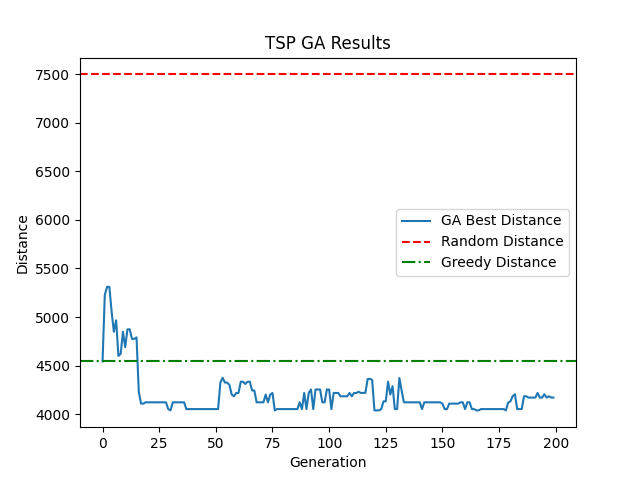
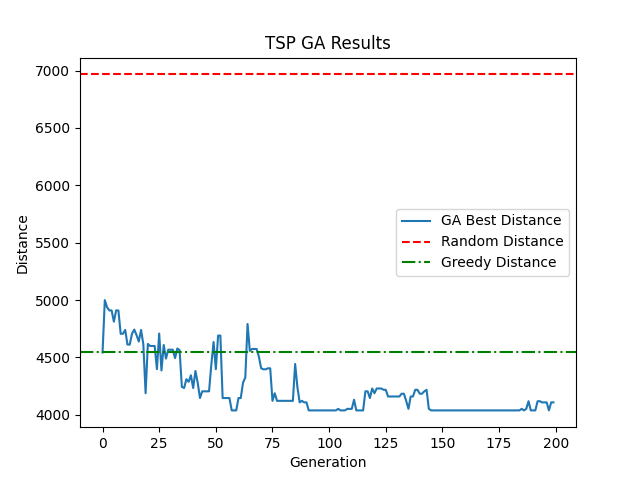
results done

diff --git a/main.py b/main.py
@@ -3,157 +3,193 @@ import numpy as np
 import matplotlib.pyplot as plt
 import sys
 import random
+import os
+
 
 def parse_tsp(filename):
-    lines=open(filename).read().strip().splitlines()
-    data=[]
-    readcoords=False
+    lines = open(filename).read().strip().splitlines()
+    data = []
+    readcoords = False
     for line in lines:
         if line.startswith("NODE_COORD_SECTION"):
-            readcoords=True
+            readcoords = True
             continue
         if line.startswith("EOF"):
             break
         if readcoords:
-            parts=line.split()
-            data.append([int(parts[0]),float(parts[1]),float(parts[2])])
-    df=pd.DataFrame(data,columns=["id","x","y"])
+            parts = line.split()
+            data.append([int(parts[0]), float(parts[1]), float(parts[2])])
+    df = pd.DataFrame(data, columns=["id", "x", "y"])
     return df
 
-def distance(city1,city2):
-    return np.sqrt((city1["x"]-city2["x"])**2+(city1["y"]-city2["y"])**2)
 
-def total_distance(df,solution):
-    dist=0
-    for i in range(len(solution)-1):
-        dist+=distance(df.iloc[solution[i]-1],df.iloc[solution[i+1]-1])
-    dist+=distance(df.iloc[solution[-1]-1],df.iloc[solution[0]-1])
-    return dist
+def distance(city1, city2):
+    return np.sqrt((city1["x"] - city2["x"]) ** 2 + (city1["y"] - city2["y"]) ** 2)
+
+
+def total_distance(df, solution):
+    return sum(distance(df.iloc[solution[i] - 1], df.iloc[solution[i + 1] - 1])
+               for i in range(len(solution) - 1)) + distance(df.iloc[solution[-1] - 1], df.iloc[solution[0] - 1])
+
 
 def random_solution(df):
-    route=list(df["id"])
+    route = list(df["id"])
     random.shuffle(route)
     return route
 
-def greedy_solution(df):
-    ids=list(df["id"])
-    bestdist=float("inf")
-    bestsol=None
-    for start in ids:
-        remaining=[c for c in ids if c!=start]
-        route=[start]
-        current=start
-        while remaining:
-            nxt=min(remaining,key=lambda x:distance(df.iloc[current-1],df.iloc[x-1]))
-            route.append(nxt)
-            remaining.remove(nxt)
-            current=nxt
-        d=total_distance(df,route)
-        if d<bestdist:
-            bestdist=d
-            bestsol=route
-    return bestsol
 
-def create_population(df,pop_size,include_greedy=False):
-    pop=[]
-    for i in range(pop_size):
-        if include_greedy and i==0:
-            pop.append(greedy_solution(df))
-        else:
-            pop.append(random_solution(df))
-    return pop
+def create_population(df, pop_size):
+    return [random_solution(df) for _ in range(pop_size)]
 
-def evaluate_population(df,pop):
-    scores=[total_distance(df,sol) for sol in pop]
-    return scores
 
-def selection_tournament(df,pop,k):
-    selected=random.sample(pop,k)
-    best=min(selected,key=lambda x:total_distance(df,x))
-    return best
+def evaluate_population(df, pop):
+    return [total_distance(df, sol) for sol in pop]
 
-def crossover_pmx(parent1,parent2):
-    size=len(parent1)
-    p1=random.randint(0,size-1)
-    p2=random.randint(p1,size-1)
-    child=[None]*size
-    child[p1:p2]=parent1[p1:p2]
-    for x in parent2[p1:p2]:
-        if x in child:
-            continue
-        idx=parent2.index(parent1[parent2.index(x)])
-        while p1<=idx<p2:
-            idx=parent2.index(parent1[idx])
-        child[idx]=x
-    for i in range(size):
-        if child[i] is None:
-            child[i]=parent2[i]
+
+def selection_tournament(df, pop, k):
+    selected = random.sample(pop, k)
+    return min(selected, key=lambda x: total_distance(df, x))
+
+
+def crossover_ox(parent1, parent2):
+    size = len(parent1)
+    a, b = sorted(random.sample(range(size), 2))
+    hole = set(parent1[a:b])
+    child = [None] * size
+    child[a:b] = parent1[a:b]
+
+    current = b
+    for gene in parent2[b:] + parent2[:b]:
+        if gene not in hole:
+            if current >= size:
+                current = 0
+            child[current] = gene
+            current += 1
     return child
 
-def mutate_swap(sol,prob):
-    for i in range(len(sol)):
-        if random.random()<prob:
-            j=random.randint(0,len(sol)-1)
-            sol[i],sol[j]=sol[j],sol[i]
+
+def mutate_inversion(sol, prob):
+    if random.random() < prob:
+        i, j = sorted(random.sample(range(len(sol)), 2))
+        sol[i:j + 1] = reversed(sol[i:j + 1])
     return sol
 
-def new_generation(df,pop,pop_size,pmut,pxover,k):
-    newpop=[]
-    while len(newpop)<pop_size:
-        p1=selection_tournament(df,pop,k)
-        p2=selection_tournament(df,pop,k)
-        if random.random()<pxover:
-            child=crossover_pmx(p1,p2)
+
+def new_generation(df, pop, pop_size, pmut, pxover, k):
+    newpop = []
+    while len(newpop) < pop_size:
+        p1 = selection_tournament(df, pop, k)
+        p2 = selection_tournament(df, pop, k)
+        if random.random() < pxover:
+            child = crossover_ox(p1, p2)
         else:
-            child=p1[:]
-        child=mutate_swap(child,pmut)
+            child = p1.copy()
+        child = mutate_inversion(child, pmut)
         newpop.append(child)
     return newpop
 
-def run_ga(df,pop_size,epochs,pmut,pxover,k):
-    pop=create_population(df,pop_size,True)
-    best_sol=None
-    best_fit=float("inf")
-    x_vals=[]
-    y_vals=[]
+
+def run_ga(df, pop_size, epochs, pmut, pxover, k, patience=100):
+    pop = create_population(df, pop_size)
+    best_sol = None
+    best_fit = float("inf")
+    x_vals, y_vals = [], []
+    stagnant_epochs = 0
+
     for gen in range(epochs):
-        scores=evaluate_population(df,pop)
-        fit=min(scores)
-        if fit<best_fit:
-            best_fit=fit
-            best_sol=pop[scores.index(fit)][:]
-        print(gen, fit)  # <-- PROGRESS LINE ADDED HERE
+        scores = evaluate_population(df, pop)
+        current_best = min(scores)
+
+        if current_best < best_fit:
+            best_fit = current_best
+            best_sol = pop[scores.index(current_best)].copy()
+            stagnant_epochs = 0
+        else:
+            stagnant_epochs += 1
+
         x_vals.append(gen)
-        y_vals.append(fit)
-        pop=new_generation(df,pop,pop_size,pmut,pxover,k)
-    return best_sol,best_fit,x_vals,y_vals
+        y_vals.append(best_fit)
+
+        print(f"Gen {gen:3d}: Best Distance = {best_fit:.2f}")
+
+        if stagnant_epochs >= patience:
+            print(f"Early stopping at generation {gen}")
+            break
+
+        pop = new_generation(df, pop, pop_size, pmut, pxover, k)
+
+        if gen % 20 == 0:
+            pop = pop[:-5] + [random_solution(df) for _ in range(5)]
+
+    return best_sol, best_fit, x_vals, y_vals
+
+
+def greedy_solution(df):
+    cities = df["id"].tolist()
+    current_city = cities[0]
+    route = [current_city]
+    unvisited_cities = set(cities[1:])
+
+    while unvisited_cities:
+        nearest_city = min(unvisited_cities, key=lambda city: distance(df.iloc[current_city - 1], df.iloc[city - 1]))
+        route.append(nearest_city)
+        unvisited_cities.remove(nearest_city)
+        current_city = nearest_city
+
+    return route
+
+
+def plot_results(x_vals, y_vals, gdist, pop_size, epochs, pmut, pxover, k):
+    plt.figure(figsize=(10, 6))
+
+    # İlk grafik: GA ilerleyişi
+    plt.plot(x_vals, y_vals, label="GA Best Distance", color="blue", linewidth=2)
+    plt.axhline(y=gdist, color="green", linestyle="--", label="Greedy Distance")
+    plt.title("Genetic Algorithm Progress", fontsize=14, fontweight="bold")
+    plt.xlabel("Generation", fontsize=12)
+    plt.ylabel("Distance", fontsize=12)
+    plt.legend(fontsize=10)
+    plt.grid(True, linestyle="--", alpha=0.6)
+
+    plt.tight_layout()
+
+    # Kaydetme
+    output_filename = f"results_pop{pop_size}_epochs{epochs}_pmut{pmut}_pxover{pxover}_k{k}_gdist{gdist:.2f}.png"
+    os.makedirs("results", exist_ok=True)
+    plt.savefig(os.path.join("results", output_filename))
+    print(f"Results saved as {output_filename}")
+    plt.show()
+
 
 def main():
-    if len(sys.argv)<2:
-        print("python main.py <tsp_file>")
+    if len(sys.argv) < 2:
+        print("Usage: python main.py <tsp_file>")
         sys.exit()
-    filename=sys.argv[1]
-    df=parse_tsp(filename)
-    rsol=random_solution(df)
-    gsol=greedy_solution(df)
-    rdist=total_distance(df,rsol)
-    gdist=total_distance(df,gsol)
-    pop_size=50
-    epochs=200
-    pmut=0.1
-    pxover=0.8
-    k=3
-    best_sol,best_fit,x_vals,y_vals=run_ga(df,pop_size,epochs,pmut,pxover,k)
-    plt.plot(x_vals,y_vals,label="GA Best Distance")
-    plt.axhline(y=rdist,color="r",linestyle="--",label="Random Distance")
-    plt.axhline(y=gdist,color="g",linestyle="-.",label="Greedy Distance")
-    plt.legend()
-    plt.xlabel("Generation")
-    plt.ylabel("Distance")
-    plt.title("TSP GA Results")
-    plt.savefig("result.png")
-    plt.show()
-    print(best_fit)
 
-if __name__=="__main__":
+    filename = sys.argv[1]
+    df = parse_tsp(filename)
+
+    # Parametreler
+    pop_size = 150
+    epochs = 10
+    pmut = 0.3
+    pxover = 0.7
+    k = 5
+
+    # Referans değerler
+    greedy_route = greedy_solution(df)
+    gdist = total_distance(df, greedy_route)
+
+    # GA çalıştır
+    best_sol, best_fit, x_vals, y_vals = run_ga(df, pop_size, epochs, pmut, pxover, k)
+
+    # Sonuçları görselleştir
+    plot_results(x_vals, y_vals, gdist, pop_size, epochs, pmut, pxover, k)
+
+    print(f"\nFinal Results:")
+    print(f"Greedy Distance: {gdist:.2f}")
+    print(f"GA Best Distance: {best_fit:.2f}")
+
+
+if __name__ == "__main__":
     main()
